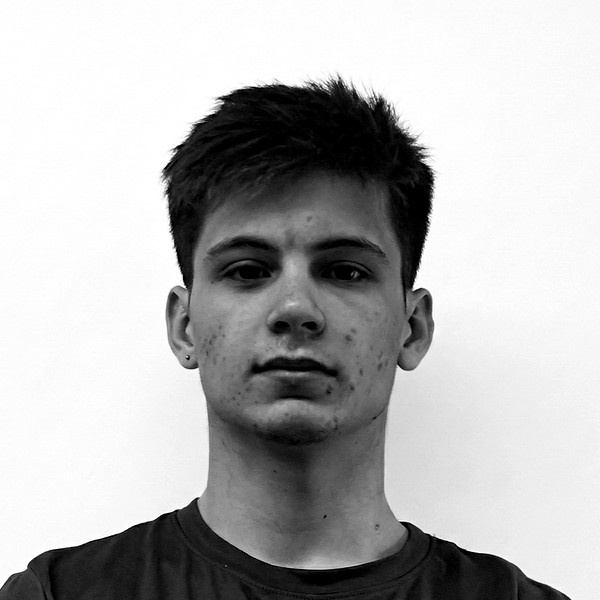
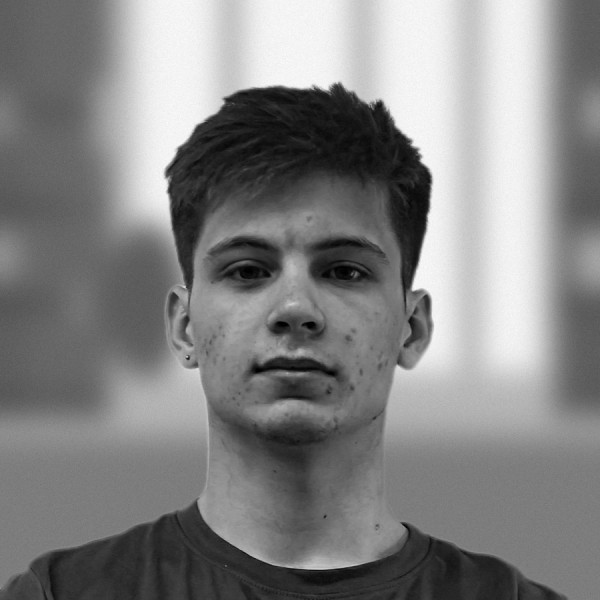
Fondo de oficina desenfocado en blanco y negro para los retratos de Jon e Ibai
Claude-Session: https://claude.ai/code/session_016g1Nu6Z9TFJoytB2N3cPjP

diff --git a/index.html b/index.html
@@ -509,7 +509,7 @@ chk()})();
       <div style="display:grid;grid-template-columns:repeat(auto-fit,minmax(min(100%,220px),1fr));gap:clamp(28px,3.4vw,52px) clamp(18px,2.4vw,36px);padding-top:clamp(8px,1.6vw,20px)">
         <div class="suxtr-rise" style="display:flex;flex-direction:column;align-items:center;text-align:center;gap:6px">
           <div style="width:min(100%,210px);aspect-ratio:1/1;border-radius:50%;overflow:hidden;background:#d9d9d9;margin-bottom:14px;box-shadow:0 0 0 1px #d6d6d6;transition:transform .35s cubic-bezier(.16,.84,.28,1),box-shadow .35s ease" style-hover="transform:scale(1.04);box-shadow:0 0 0 3px #2f9be0">
-            <img src="assets/equipo-jon.jpg" alt="Retrato de Jon Medina" loading="lazy" style="display:block;width:100%;height:100%;object-fit:cover;filter:grayscale(1)" />
+            <img src="assets/equipo-jon.jpg?v=2" alt="Retrato de Jon Medina" loading="lazy" style="display:block;width:100%;height:100%;object-fit:cover;filter:grayscale(1)" />
           </div>
           <h3 style="margin:0;font-size:20px;font-weight:600;letter-spacing:-.015em">Jon Medina</h3>
           <span style="font-family:'Inter Tight',Helvetica,Arial,sans-serif;font-size:11.5px;letter-spacing:.12em;text-transform:uppercase;color:#737b85">Cofundador</span>
@@ -517,7 +517,7 @@ chk()})();
         </div>
         <div class="suxtr-rise" style="display:flex;flex-direction:column;align-items:center;text-align:center;gap:6px">
           <div style="width:min(100%,210px);aspect-ratio:1/1;border-radius:50%;overflow:hidden;background:#d9d9d9;margin-bottom:14px;box-shadow:0 0 0 1px #d6d6d6;transition:transform .35s cubic-bezier(.16,.84,.28,1),box-shadow .35s ease" style-hover="transform:scale(1.04);box-shadow:0 0 0 3px #2f9be0">
-            <img src="assets/equipo-ibai.jpg" alt="Retrato de Ibai García" loading="lazy" style="display:block;width:100%;height:100%;object-fit:cover;filter:grayscale(1)" />
+            <img src="assets/equipo-ibai.jpg?v=2" alt="Retrato de Ibai García" loading="lazy" style="display:block;width:100%;height:100%;object-fit:cover;filter:grayscale(1)" />
           </div>
           <h3 style="margin:0;font-size:20px;font-weight:600;letter-spacing:-.015em">Ibai García</h3>
           <span style="font-family:'Inter Tight',Helvetica,Arial,sans-serif;font-size:11.5px;letter-spacing:.12em;text-transform:uppercase;color:#737b85">Cofundador</span>
